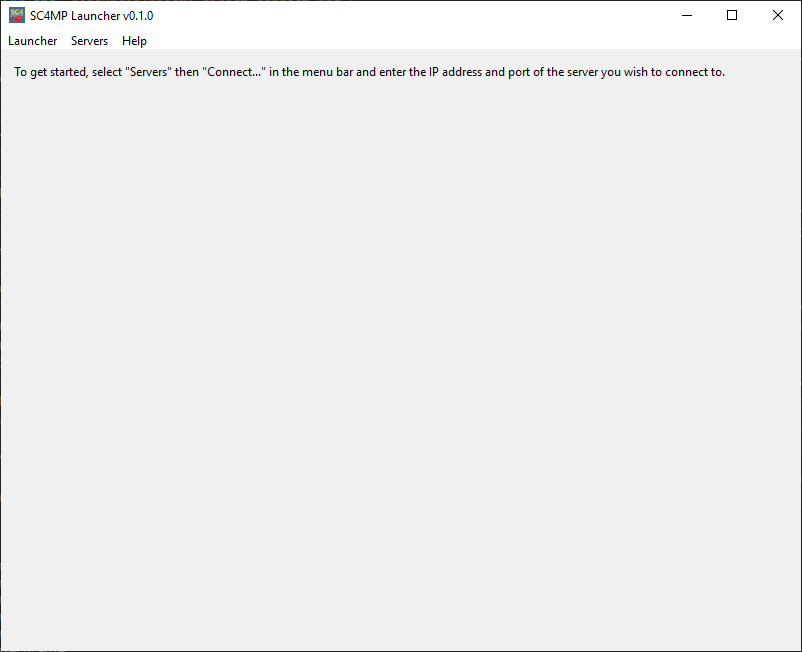
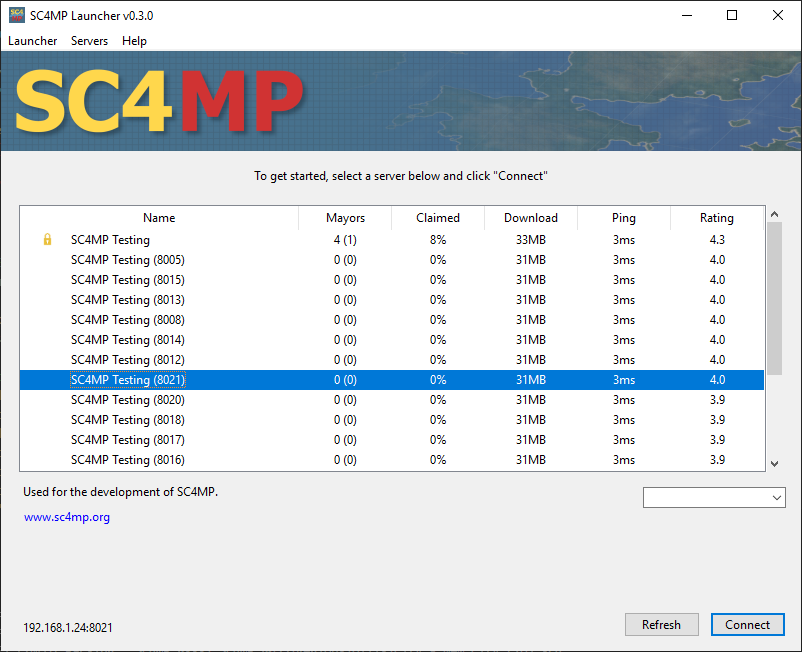
readme

diff --git a/Readme.html b/Readme.html
@@ -22,13 +22,20 @@
 			</center>
 			<h2>Getting started</h2>
 				<h3>Run the launcher</h3>
-					<p>Open the "SC4MP Launcher" to start the launcher. The main window of the SC4MP Launcher will appear on-screen. The main window is incomplete in this version, but a server browser is planned for future versions.</p>
+					<p>Run the program titled "SC4MP Launcher" to start the launcher. The main window of the SC4MP Launcher will appear on-screen. </p>
+					<p>This window contains a server browser which displays the servers currently online. Each server has associated statistics. You can sort by any column by clicking on the column header. By default the servers are sorted by rating, which is calculated from the other server statistics.</p>
+					<p>Each server has a description, URL and address located in the lower-left corner of the server browser.</p>
+					<p>The servers can be filtered by a category or by search terms using the box on the lower-right corner.</p>
+					<p>You can refresh the listings by clicking the "Refresh" button.</p>
 					<img src="resources/readme-launcher.png">
-				<h3>Connect to a server</h3>
-					<p>In the menu bar under "Servers" click "Connect..." or press F1 to open the direct connect window.</p>
+				<h3>Connect to a server from the server browser</h3>
+					<p>Once you've selected the server you wish to connect to, click the "Connect" button or press enter.</p>
+				<h3>Connect to a server from the direct connect window</h3>
+					<p>If the desired server does not appear in the server browser, you can use the direct connect window. In the menu bar under "Servers" click "Connect..." or press F1 to open the direct connect window.</p>
 					<p>This window allows you to connect to a server by manually entering the hostname (ie. IP address) and port of a server. If you haven't connected to a server yet, the window will be configured to connect you to the official SC4MP server. Once you've entered in the hostname and port of the server you wish to connect to, click "Connect."</p>
 					<img src="resources/readme-direct-connect.png">
-					<p>Certain servers may also prompt you for a password. The loading sequence will be cancelled after five failed password attempts.</p>
+				<h3>The loading sequence</h3>
+					<p>Certain servers may prompt you for a password. The loading sequence will be cancelled after five failed password attempts.</p>
 					<img src="resources/readme-password-prompt.png">
 					<p>If the launcher successfully establishes a connection to the server, it will begin downloading the server's plugins and regions. This loading sequence can be cancelled at any time by x-ing out of the window or pressing escape.</p>
 					<img src="resources/readme-server-loader.png">
@@ -48,6 +55,12 @@
 				<!--<h3>Playing in others' cities</h3>
 					<p>You are welcome to open and play in other users' claimed cities. You can even edit them and save them locally, but keep in mind that any changes will not be saved to the server. The saves will also be lost the next time you connect to a server unless you manually move them from the launch directory.</p>
 					<p><b>NOTE:</b> since SC4MP in its current state uses the datetime subfile of savegames as a secondary data point in triangulating save pushes in unusual region configurations, sometimes playing on neighboring tiles can lead to problems. If you encounter issues saving after playing on a neighboring tile, delete all the neighboring tiles of the tile you've claimed to ensure only one savegame is sent to the server.</p>-->
+				<h3>Refreshing regions</h3>
+					<p>To refresh regions, simply load the region titled "Refresh..."</p>
+					<img src="resources/readme-regions.png">
+					<p>The launcher will then initiate the refresh sequence automatically. Wait for this to complete before loading another region.</p>
+					<p>Refreshing regions will also ovverwrite your own cities, so ensure that your work has been saved to the server before refreshing.</p>
+					<!--<img src="resources/readme-refresh.png">-->
 				<h3>Disconnecting</h3>
 					<p>To disconnect from a server, simply exit the game. The server monitor will remain open for a few more seconds, but then the main window will subsequently re-open. You are able to then connect to another server seamlessly, without restarting the launcher.</p>
 			<h2>Configuring the launcher</h2>
